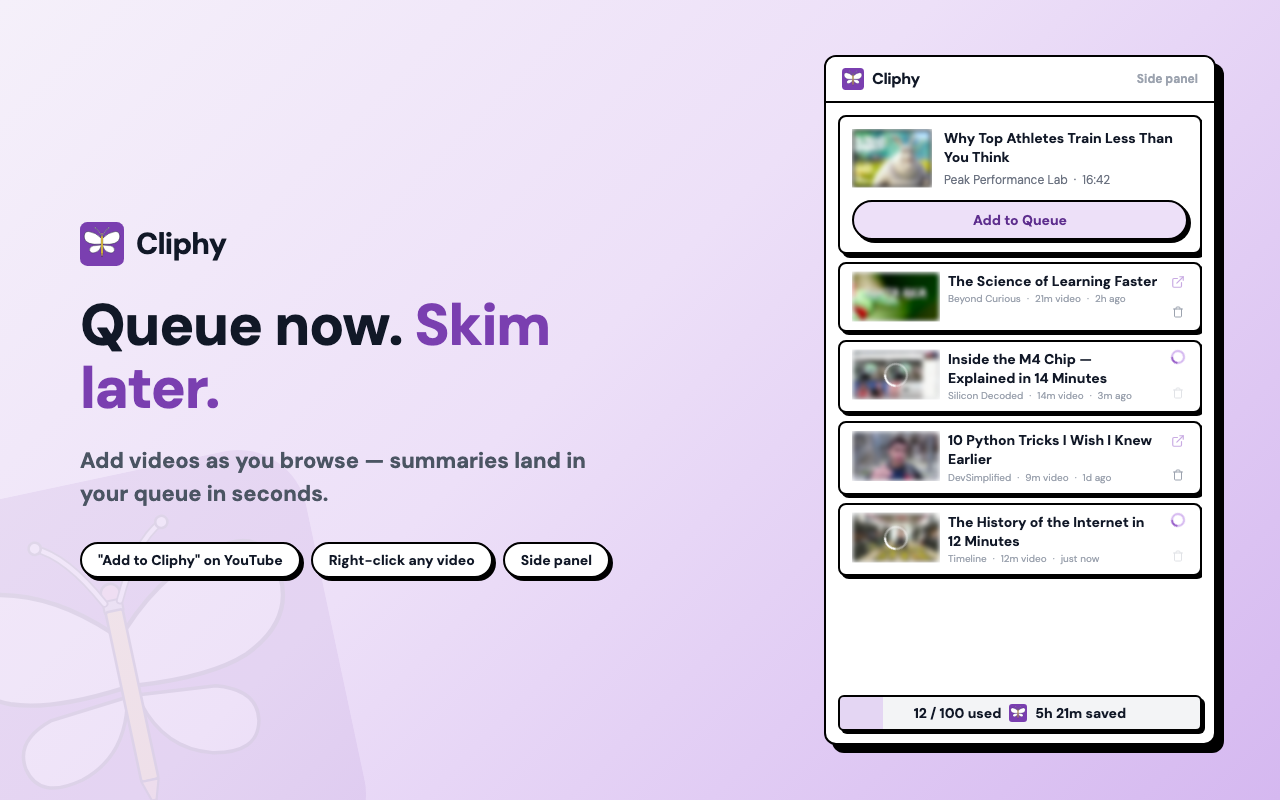
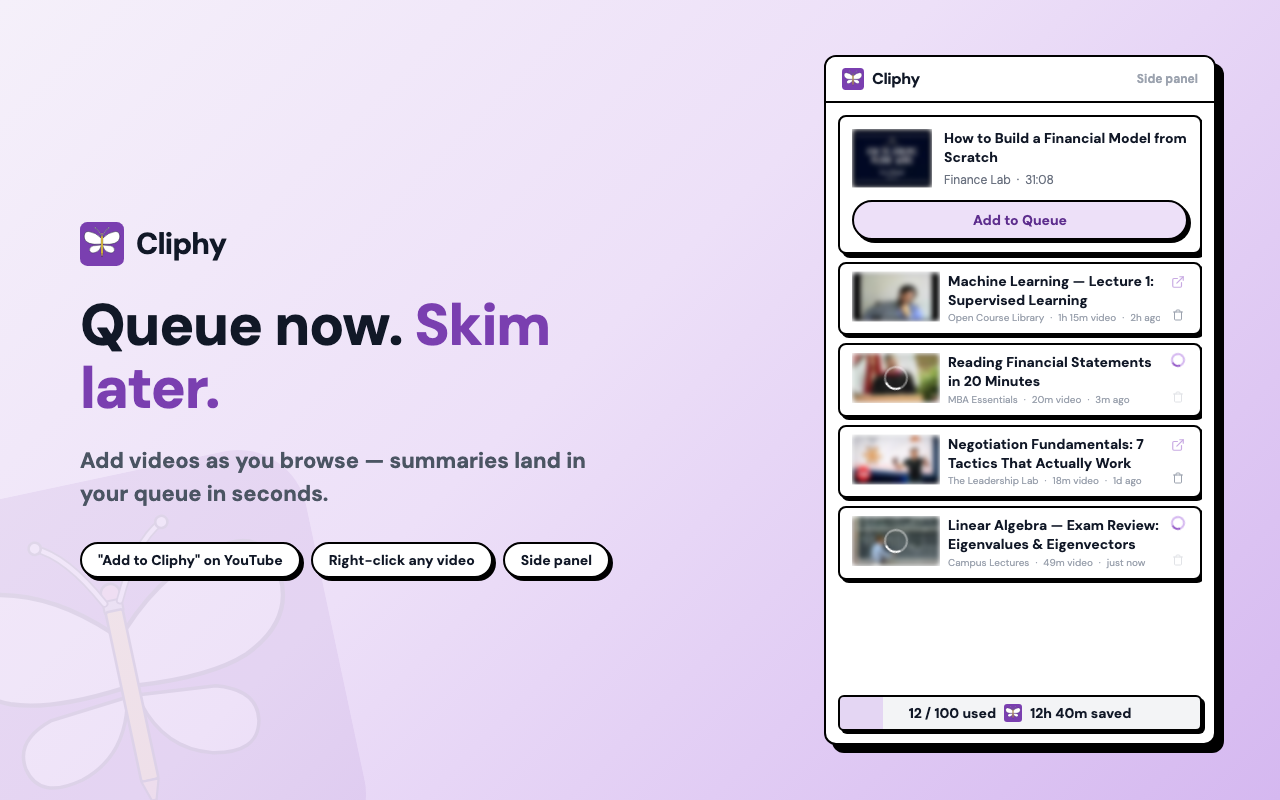
retarget store screenshot demo content at student/business users
Hero summary is now a 75-min ML lecture (stronger time-saved story);
queue mixes finance, negotiation, and exam-review content. Thumbnails
swapped to matching lecture-hall/chalkboard/talk visuals.

Changed region(s): [[0.6562, 0.3125, 0.9375, 0.75], [0.6562, 0.1562, 0.9375, 0.25], [0.7188, 0.875, 0.875, 0.9062]]

diff --git a/apps/web/promo/main.tsx b/apps/web/promo/main.tsx
@@ -26,39 +26,41 @@ const hoursAgo = (h: number) => new Date(Date.now() - h * 3600_000).toISOString(
 const demoSummary: Summary = {
   id: "demo-1",
   userId: "demo",
-  // Real video IDs so i.ytimg.com serves real thumbnails (blurred via promo.css)
-  videoId: "LXb3EKWsInQ",
-  videoTitle: "The Science of Learning Faster",
-  videoChannel: "Beyond Curious",
-  videoDurationSeconds: 1284,
+  // Real video IDs so i.ytimg.com serves real thumbnails (blurred via promo.css).
+  // Picked for blurred vibe: lecture halls, chalkboards, talks.
+  videoId: "kYfNvmF0Bqw",
+  videoTitle: "Machine Learning — Lecture 1: Supervised Learning",
+  videoChannel: "Open Course Library",
+  videoDurationSeconds: 4530,
   status: "completed",
-  tags: ["learning", "productivity"],
+  tags: ["lectures", "ml"],
   createdAt: hoursAgo(2),
   updatedAt: hoursAgo(2),
   summaryJson: {
     summary:
-      "Most study advice optimizes for feeling productive, not for retention. This video walks through what cognitive science actually says: spaced repetition beats cramming, testing yourself beats re-reading, and interleaving topics beats blocked practice — then shows how to combine all three into a 30-minute daily system.",
+      "First lecture of the series: what machine learning actually is, and why supervised learning dominates real applications. Covers the difference between regression and classification, how a model 'learns' from labeled examples, and the train/test split that keeps you honest. Ends with course logistics and what's expected for problem set 1.",
     keyPoints: [
-      "Re-reading creates an illusion of mastery — recognition isn't recall",
-      "Spacing reviews 1, 3, and 7 days out doubles long-term retention",
-      "Self-testing is the single highest-leverage study technique",
-      "Interleaving related topics feels harder but transfers better",
+      "Supervised learning = learning a mapping from labeled examples",
+      "Regression predicts continuous values; classification predicts categories",
+      "Never evaluate on data the model trained on — that's the whole point of the test set",
+      "Most production ML is still supervised learning on tabular data",
     ],
     contextSection: {
       title: "Action Items",
       icon: "→",
       items: [
-        "Replace tonight's re-read with a 10-question self-quiz",
-        "Set up spaced reviews: tomorrow, Thursday, next Monday",
-        "Mix two related topics in each study block",
+        "Review the linear regression notes before Thursday",
+        "Start problem set 1 — due in two weeks",
+        "Skim chapter 2 of the course reader",
       ],
     },
     timestamps: [
-      "0:00 — Why cramming fails",
-      "3:12 — Spaced repetition, explained",
-      "8:45 — The testing effect",
-      "14:30 — Building a 30-minute system",
-      "19:02 — Mistakes to avoid",
+      "0:00 — Course logistics and grading",
+      "9:30 — What is machine learning?",
+      "21:15 — Supervised vs unsupervised learning",
+      "38:40 — Regression and classification, with examples",
+      "58:05 — Train/test splits and overfitting",
+      "1:09:20 — Problem set 1 walkthrough",
     ],
   },
 };
@@ -68,10 +70,10 @@ const queueSummaries: Summary[] = [
   {
     id: "demo-2",
     userId: "demo",
-    videoId: "M7lc1UVf-VE",
-    videoTitle: "Inside the M4 Chip — Explained in 14 Minutes",
-    videoChannel: "Silicon Decoded",
-    videoDurationSeconds: 845,
+    videoId: "UF8uR6Z6KLc",
+    videoTitle: "Reading Financial Statements in 20 Minutes",
+    videoChannel: "MBA Essentials",
+    videoDurationSeconds: 1245,
     status: "processing",
     tags: [],
     createdAt: hoursAgo(0.05),
@@ -80,27 +82,27 @@ const queueSummaries: Summary[] = [
   {
     id: "demo-3",
     userId: "demo",
-    videoId: "jNQXAC9IVRw",
-    videoTitle: "10 Python Tricks I Wish I Knew Earlier",
-    videoChannel: "DevSimplified",
-    videoDurationSeconds: 598,
+    videoId: "arj7oStGLkU",
+    videoTitle: "Negotiation Fundamentals: 7 Tactics That Actually Work",
+    videoChannel: "The Leadership Lab",
+    videoDurationSeconds: 1130,
     status: "completed",
-    tags: ["coding"],
+    tags: ["business"],
     createdAt: hoursAgo(26),
     updatedAt: hoursAgo(26),
     summaryJson: {
-      summary: "Ten practical Python idioms.",
-      keyPoints: ["Use enumerate", "Prefer pathlib"],
+      summary: "Seven research-backed negotiation tactics.",
+      keyPoints: ["Anchor first", "Trade, don't concede"],
       timestamps: ["0:00 — Intro"],
     },
   },
   {
     id: "demo-4",
     userId: "demo",
-    videoId: "9bZkp7q19f0",
-    videoTitle: "The History of the Internet in 12 Minutes",
-    videoChannel: "Timeline",
-    videoDurationSeconds: 731,
+    videoId: "ZK3O402wf1c",
+    videoTitle: "Linear Algebra — Exam Review: Eigenvalues & Eigenvectors",
+    videoChannel: "Campus Lectures",
+    videoDurationSeconds: 2940,
     status: "pending",
     tags: [],
     createdAt: hoursAgo(0.01),
@@ -109,11 +111,11 @@ const queueSummaries: Summary[] = [
 ];
 
 const demoVideo: VideoInfo = {
-  videoId: "aqz-KE-bpKQ",
-  title: "Why Top Athletes Train Less Than You Think",
+  videoId: "PHe0bXAIuk0",
+  title: "How to Build a Financial Model from Scratch",
   url: "https://www.youtube.com/watch?v=demo",
-  channel: "Peak Performance Lab",
-  duration: "16:42",
+  channel: "Finance Lab",
+  duration: "31:08",
   isLive: false,
 };
 
@@ -122,7 +124,7 @@ const demoUsage: UsageInfo = {
   limit: 100,
   plan: "pro",
   resetAt: new Date(Date.now() + 14 * 86400_000).toISOString(),
-  totalTimeSavedSeconds: 19_260,
+  totalTimeSavedSeconds: 45_600,
   bonusCredits: 0,
 };
 
@@ -255,7 +257,7 @@ function Shot1() {
           <div className="overflow-hidden">
             <SummaryDetail
               summary={demoSummary}
-              allTags={["learning", "productivity", "coding"]}
+              allTags={["lectures", "ml", "business"]}
               onSeek={noop}
             />
           </div>
